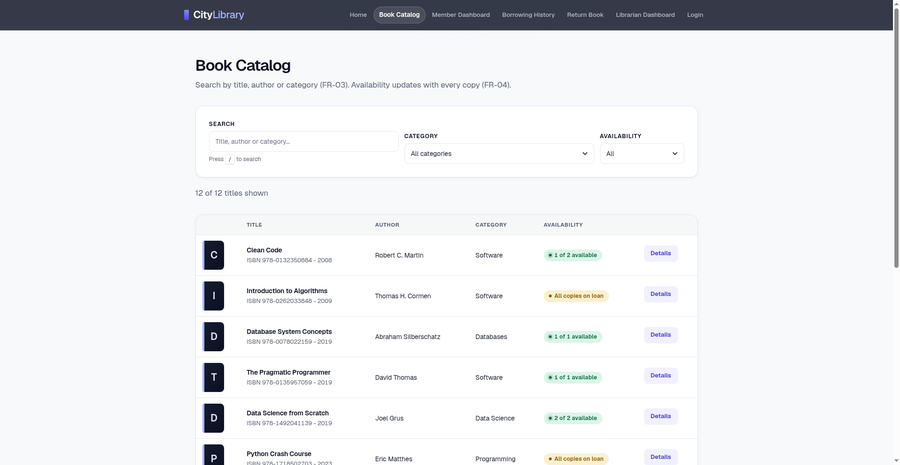
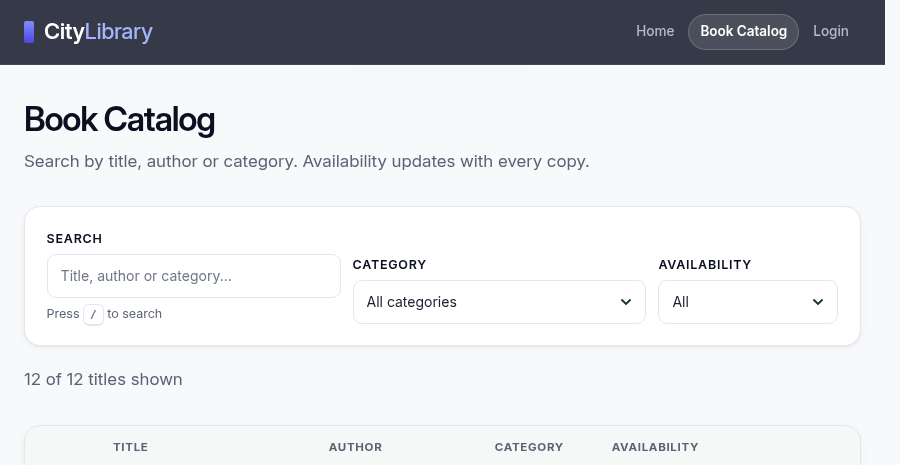
Remove FR tags from the UI, refresh screenshots

diff --git a/docs/js/app.js b/docs/js/app.js
@@ -38,7 +38,7 @@ const STATE = Object.assign(
   MEMBERS.forEach(m => { if (m.id in STATE.suspended) m.suspended = STATE.suspended[m.id]; });
 })();
 
-/* Business rule (FR-05/FR-08): a member cannot place a borrow request while
+/* Business rule: a member cannot place a borrow request while
    suspended, with an unpaid fine, or while holding 3 or more active loans. */
 function memberEligibility() {
   const reasons = [];
@@ -120,8 +120,8 @@ function renderBookDetails() {
         ? `<span class="badge ok">${nAvail} of ${b.copies.length} copies available</span>`
         : `<span class="badge warn">All copies on loan</span>`}</p>
       <div style="margin-top:18px">
-        <button class="btn" id="borrow" ${nAvail && elig.ok ? "" : "disabled"}>Request to borrow (FR-05)</button>
-        <button class="btn secondary" id="reserve" ${nAvail ? "disabled" : ""}>Reserve this book (FR-09)</button>
+        <button class="btn" id="borrow" ${nAvail && elig.ok ? "" : "disabled"}>Request to borrow</button>
+        <button class="btn secondary" id="reserve" ${nAvail ? "disabled" : ""}>Reserve this book</button>
       </div>
       <div id="action-result" style="margin-top:14px"></div>
     </div>
@@ -140,21 +140,21 @@ function renderBookDetails() {
   if (!elig.ok) {
     document.getElementById("action-result").innerHTML =
       `<div class="notice">Borrowing is blocked for this member: ${elig.reasons.join("; ")}.
-       Resolve this on the <a href="member.html">member dashboard</a> first (FR-05, business rules).</div>`;
+       Resolve this on the <a href="member.html">member dashboard</a> first.</div>`;
   }
   document.getElementById("borrow").addEventListener("click", () => {
     const current = memberEligibility();
     if (!current.ok) {
       document.getElementById("action-result").innerHTML =
-        `<div class="notice">Borrow request blocked: ${current.reasons.join("; ")} (FR-05, business rules).</div>`;
+        `<div class="notice">Borrow request blocked: ${current.reasons.join("; ")}.</div>`;
       return;
     }
     document.getElementById("action-result").innerHTML =
-      `<div class="notice ok">Borrow request sent. A librarian will review and confirm it; the due date is set at confirmation (FR-14).</div>`;
+      `<div class="notice ok">Borrow request sent. A librarian will review and confirm it; the due date is set at confirmation.</div>`;
   });
   document.getElementById("reserve").addEventListener("click", () => {
     document.getElementById("action-result").innerHTML =
-      `<div class="notice ok">You joined the reservation queue at position ${queue.length + 1}. You will be notified when a copy is returned (FR-09, FR-18).</div>`;
+      `<div class="notice ok">You joined the reservation queue at position ${queue.length + 1}. You will be notified when a copy is returned.</div>`;
   });
 }
 
@@ -169,11 +169,11 @@ function renderMemberDashboard() {
   mine.forEach(l => {
     const b = bookById(l.bookId);
     const days = daysBetween(TODAY, l.dueDate);
-    if (l.status === "overdue") notices.push(`<div class="notice">Overdue: "${esc(b.title)}" was due on ${l.dueDate}. Please return it; fines accrue at ${FINE_PER_DAY} EGP/day (FR-11).</div>`);
-    else if (days <= 3) notices.push(`<div class="notice ok">Reminder: "${esc(b.title)}" is due in ${days} day(s), on ${l.dueDate} (FR-11).</div>`);
+    if (l.status === "overdue") notices.push(`<div class="notice">Overdue: "${esc(b.title)}" was due on ${l.dueDate}. Please return it; fines accrue at ${FINE_PER_DAY} EGP/day.</div>`);
+    else if (days <= 3) notices.push(`<div class="notice ok">Reminder: "${esc(b.title)}" is due in ${days} day(s), on ${l.dueDate}.</div>`);
   });
   const elig = memberEligibility();
-  if (!elig.ok) notices.unshift(`<div class="notice">Borrowing is currently blocked for this account: ${elig.reasons.join("; ")} (FR-05, business rules).</div>`);
+  if (!elig.ok) notices.unshift(`<div class="notice">Borrowing is currently blocked for this account: ${elig.reasons.join("; ")}.</div>`);
   document.getElementById("notices").innerHTML = notices.join("");
 
   document.getElementById("loans").innerHTML = mine.map(l => {
@@ -241,7 +241,7 @@ function renderReturnPage() {
           <tr><th>Overdue days</td><td>${late}</td></tr>
           <tr><th>Fine</th><td>${fine ? `<span class="badge danger">${fine} EGP (${late} x ${FINE_PER_DAY} EGP)</span>` : '<span class="badge ok">No fine</span>'}</td></tr>
         </table>
-        ${waiting.length ? `<p style="margin-top:12px" class="book-meta">Note: ${waiting.length} member(s) have this book reserved; the next in queue will be notified (FR-18).</p>` : ""}
+        ${waiting.length ? `<p style="margin-top:12px" class="book-meta">Note: ${waiting.length} member(s) have this book reserved; the next in queue will be notified.</p>` : ""}
         <div style="margin-top:16px"><button class="btn" id="confirm">Confirm return</button></div>
         <div id="done" style="margin-top:12px"></div>
       </div>`;
@@ -272,7 +272,7 @@ function renderLibrarianDashboard() {
       const decision = STATE.decisions[r.id];
       const bookCell = `<div class="book-title">${esc(b.title)}</div><div class="book-meta">${esc(b.author)}</div>`;
       const action = decision === "ok"
-        ? `<span class="badge ok">Confirmed</span> Loan recorded, due in 14 days (FR-14).`
+        ? `<span class="badge ok">Confirmed</span> Loan recorded, due in 14 days.`
         : decision === "no"
           ? `<span class="badge muted">Rejected</span> The member was notified.`
           : `<button class="btn small" data-act="ok" data-id="${r.id}">Confirm</button>
@@ -296,7 +296,7 @@ function renderLibrarianDashboard() {
       <td>${days}</td><td><span class="badge danger">${loanFine(l)} EGP</span></td></tr>`;
   }).join("") || `<tr><td colspan="5">No overdue loans.</td></tr>`;
 
-  /* Catalog management: add, update, remove books and register copies (FR-12, FR-13). */
+  /* Catalog management: add, update, remove books and register copies. */
   const noticeEl = document.getElementById("notice");
   const catBody = document.getElementById("catalog-table");
   let editingId = null;
@@ -331,7 +331,7 @@ function renderLibrarianDashboard() {
         const added = STATE.addedBooks.find(x => x.id === editingId);
         if (added) Object.assign(added, { title: data.title, author: data.author, category: data.category });
         saveState();
-        noticeEl.innerHTML = `<div class="notice ok">"${esc(data.title)}" updated (FR-12).</div>`;
+        noticeEl.innerHTML = `<div class="notice ok">"${esc(data.title)}" updated.</div>`;
       }
       clearForm();
     } else {
@@ -345,7 +345,7 @@ function renderLibrarianDashboard() {
       STATE.addedBooks.push(b);
       saveState();
       noticeEl.innerHTML =
-        `<div class="notice ok">"${esc(b.title)}" added to the catalog with ${b.copies.length} cop(y/ies) (FR-12, FR-13).</div>`;
+        `<div class="notice ok">"${esc(b.title)}" added to the catalog with ${b.copies.length} cop(y/ies).</div>`;
     }
     drawCatalog();
   });
@@ -395,7 +395,7 @@ function renderLibrarianDashboard() {
     }
   });
 
-  /* Member management: suspend/reactivate is functional and persists (FR-17). */
+  /* Member management: suspend/reactivate is functional and persists. */
   const memEl = document.getElementById("members");
   function drawMembers() {
     memEl.innerHTML = MEMBERS.map(m =>
@@ -422,7 +422,7 @@ function renderLibrarianDashboard() {
   }).join("");
 }
 
-/* ---------- Login / Register (FR-01, FR-02; mock, no real authentication) ---------- */
+/* ---------- Login / Register ---------- */
 const HOME_BY_ROLE = { member: "member.html", librarian: "librarian.html" };
 function roleOf(u) { return u && u.role === "librarian" ? "librarian" : "member"; }
 function renderLoginPage() {
@@ -557,7 +557,7 @@ addEventListener('keydown', function (e) {
   if (s) { e.preventDefault(); s.focus(); s.select(); }
 });
 
-/* ---------- Role-based navigation, page guard and logout (FR-02) ---------- */
+/* ---------- Role-based navigation, page guard and logout ---------- */
 (function () {
   const NAV = {
     guest: [["index.html", "Home"], ["catalog.html", "Book Catalog"], ["login.html", "Login"]],

diff --git a/docs/index.html b/docs/index.html
@@ -45,7 +45,7 @@
         <div class="feat-meta"><span class="feat-role">Everyone</span></div>
         <div class="feat-body">
           <h3>Find any book as you type</h3>
-          <p>Find books by title, author or category, and see the live availability of every copy before you make a request. <span class="fr">(FR-03, FR-04)</span></p>
+          <p>Find books by title, author or category, and see the live availability of every copy before you make a request.</p>
         </div>
         <div class="feat-aside" aria-hidden="true"><span>Search title or author</span><kbd>/</kbd></div>
       </li>
@@ -53,35 +53,35 @@
         <div class="feat-meta"><span class="feat-role">Members</span></div>
         <div class="feat-body">
           <h3>Borrow and return</h3>
-          <p>Submit borrow requests, follow their approval, and return books when you are done. Loans run for 14 days. <span class="fr">(FR-05, FR-08, FR-14, FR-15)</span></p>
+          <p>Submit borrow requests, follow their approval, and return books when you are done. Loans run for 14 days.</p>
         </div>
       </li>
       <li class="feat-row">
         <div class="feat-meta"><span class="feat-role">Members</span></div>
         <div class="feat-body">
           <h3>Stay on top of due dates</h3>
-          <p>Your dashboard shows current loans, due dates, overdue notices and any fines, at 5 EGP per overdue day. <span class="fr">(FR-06, FR-10, FR-11, FR-16)</span></p>
+          <p>Your dashboard shows current loans, due dates, overdue notices and any fines, at 5 EGP per overdue day.</p>
         </div>
       </li>
       <li class="feat-row">
         <div class="feat-meta"><span class="feat-role">Members</span></div>
         <div class="feat-body">
           <h3>Reserve popular books</h3>
-          <p>If every copy is on loan, join the reservation queue and get notified when a copy comes back. <span class="fr">(FR-09, FR-18)</span></p>
+          <p>If every copy is on loan, join the reservation queue and get notified when a copy comes back.</p>
         </div>
       </li>
       <li class="feat-row">
         <div class="feat-meta"><span class="feat-role">Members</span></div>
         <div class="feat-body">
           <h3>Track your history</h3>
-          <p>Your full borrowing history stays available, including return dates and fines from late returns. <span class="fr">(FR-07)</span></p>
+          <p>Your full borrowing history stays available, including return dates and fines from late returns.</p>
         </div>
       </li>
       <li class="feat-row">
         <div class="feat-meta"><span class="feat-role">Librarians</span></div>
         <div class="feat-body">
           <h3>Run the library from one dashboard</h3>
-          <p>Librarians manage the catalog, copies, borrow requests, returns, overdue fines, members and reservation queues. <span class="fr">(FR-12 to FR-18)</span></p>
+          <p>Librarians manage the catalog, copies, borrow requests, returns, overdue fines, members and reservation queues.</p>
         </div>
       </li>
     </ol>

diff --git a/docs/librarian.html b/docs/librarian.html
@@ -30,11 +30,11 @@
   </header>
   <main id="main">
     <h1>Librarian Dashboard</h1>
-    <p class="subtitle">Catalog, copies, borrow requests, returns, overdue fines, members and reservations (FR-12 to FR-18).</p>
+    <p class="subtitle">Catalog, copies, borrow requests, returns, overdue fines, members and reservations.</p>
     <div id="notice"></div>
     <section class="grid cols-4" id="stats"></section>
 
-    <h2>Pending borrow requests (FR-14)</h2>
+    <h2>Pending borrow requests</h2>
     <div class="card" style="padding:0; overflow:auto">
       <table>
         <thead><tr><th>Request</th><th>Member</th><th>Book</th><th>Date</th><th>Actions</th></tr></thead>
@@ -42,7 +42,7 @@
       </table>
     </div>
 
-    <h2>Overdue loans and fines (FR-16)</h2>
+    <h2>Overdue loans and fines</h2>
     <div class="card" style="padding:0; overflow:auto">
       <table>
         <thead><tr><th>Loan</th><th>Book</th><th>Due date</th><th>Overdue days</th><th>Fine (5 EGP/day)</th></tr></thead>
@@ -50,7 +50,7 @@
       </table>
     </div>
 
-    <h2>Add a book to the catalog (FR-12)</h2>
+    <h2>Add a book to the catalog</h2>
     <div class="card">
       <form class="inline" onsubmit="return false;">
         <div class="field"><label>Title</label><input type="text" id="bt" placeholder="Book title"></div>
@@ -61,7 +61,7 @@
       </form>
     </div>
 
-    <h2>Manage catalog (FR-12, FR-13)</h2>
+    <h2>Manage catalog</h2>
     <div class="card" style="padding:0; overflow:auto">
       <table>
         <thead><tr><th>Title</th><th>Author</th><th>Category</th><th>Copies (avail/total)</th><th>Actions</th></tr></thead>
@@ -69,7 +69,7 @@
       </table>
     </div>
 
-    <h2>Members (FR-17)</h2>
+    <h2>Members</h2>
     <div class="card" style="padding:0; overflow:auto">
       <table>
         <thead><tr><th>Member</th><th>Email</th><th>Active loans</th><th>Unpaid fines</th><th>Status</th><th>Action</th></tr></thead>
@@ -77,7 +77,7 @@
       </table>
     </div>
 
-    <h2>Reservation queues (FR-18)</h2>
+    <h2>Reservation queues</h2>
     <div class="card" style="padding:0; overflow:auto">
       <table>
         <thead><tr><th>Book</th><th>Member</th><th>Reserved on</th><th>Queue position</th></tr></thead>

diff --git a/docs/login.html b/docs/login.html
@@ -30,10 +30,10 @@
   </header>
   <main id="main">
     <h1>Login and Registration</h1>
-    <p class="subtitle">Register as a new member, or log in as a member or a librarian (FR-01, FR-02). Each role opens its own dashboard. Demo: no real authentication, any values work.</p>
+    <p class="subtitle">Register as a new member, or log in as a member or a librarian. Each role opens its own dashboard. Demo: no real authentication, any values work.</p>
     <div class="grid cols-3" style="grid-template-columns: repeat(auto-fill, minmax(320px, 1fr));">
       <div class="card">
-        <h2 style="margin-top:0">Log in (FR-02)</h2>
+        <h2 style="margin-top:0">Log in</h2>
         <form id="login-form">
           <label for="lemail">Email</label>
           <input type="email" id="lemail" required placeholder="you@example.com" style="margin-bottom:12px">
@@ -49,7 +49,7 @@
         <div id="login-msg" style="margin-top:12px"></div>
       </div>
       <div class="card">
-        <h2 style="margin-top:0">Register (FR-01)</h2>
+        <h2 style="margin-top:0">Register</h2>
         <form id="register-form">
           <label for="rname">Full name</label>
           <input type="text" id="rname" required placeholder="Your name" style="margin-bottom:12px">

diff --git a/docs/history.html b/docs/history.html
@@ -30,7 +30,7 @@
   </header>
   <main id="main">
     <h1>Borrowing History</h1>
-    <p class="subtitle">Every loan, with return dates and fines for late returns (FR-07).</p>
+    <p class="subtitle">Every loan, with return dates and fines for late returns.</p>
     <div class="card" style="padding:0; overflow:auto">
       <table>
         <thead><tr><th>Loan</th><th>Book</th><th>Borrowed</th><th>Due</th><th>Returned</th><th>Status</th><th>Fine</th></tr></thead>

diff --git a/docs/return.html b/docs/return.html
@@ -30,7 +30,7 @@
   </header>
   <main id="main">
     <h1>Return a Book</h1>
-    <p class="subtitle">Pick one of your active loans to return. The system checks the due date and calculates any fine (FR-08, FR-15, FR-16).</p>
+    <p class="subtitle">Pick one of your active loans to return. The system checks the due date and calculates any fine.</p>
     <div id="notice"></div>
     <div class="card">
       <form class="inline" onsubmit="return false;">

diff --git a/docs/catalog.html b/docs/catalog.html
@@ -30,7 +30,7 @@
   </header>
   <main id="main">
     <h1>Book Catalog</h1>
-    <p class="subtitle">Search by title, author or category (FR-03). Availability updates with every copy (FR-04).</p>
+    <p class="subtitle">Search by title, author or category. Availability updates with every copy.</p>
 
     <div class="card">
       <form class="inline" onsubmit="return false;">

diff --git a/docs/member.html b/docs/member.html
@@ -30,7 +30,7 @@
   </header>
   <main id="main">
     <h1>Member Dashboard</h1>
-    <p class="subtitle">Current loans, due dates, fines and notifications (FR-06, FR-10, FR-11).</p>
+    <p class="subtitle">Current loans, due dates, fines and notifications.</p>
     <div id="notices"></div>
     <div class="card" id="profile"></div>
     <h2>Current loans</h2>
